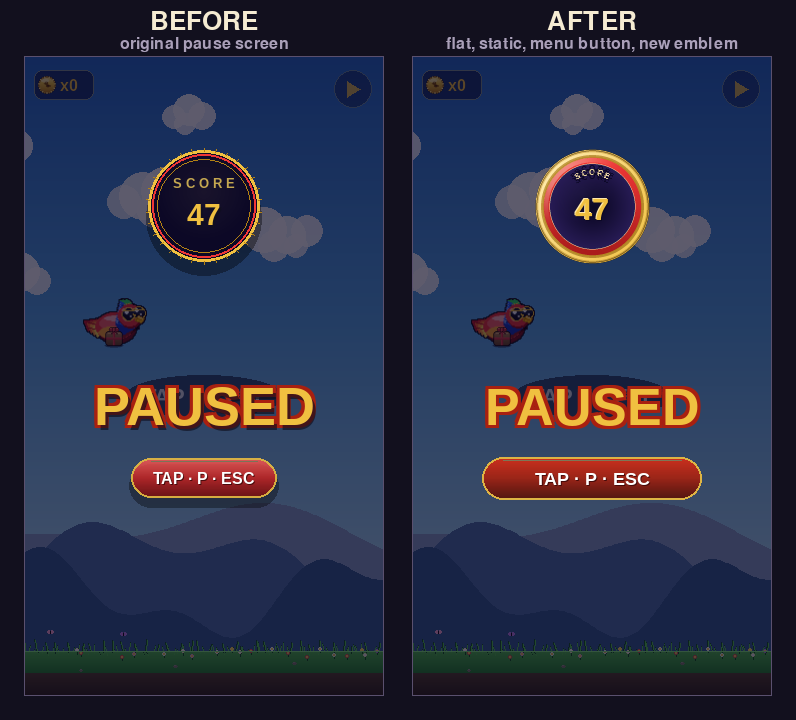
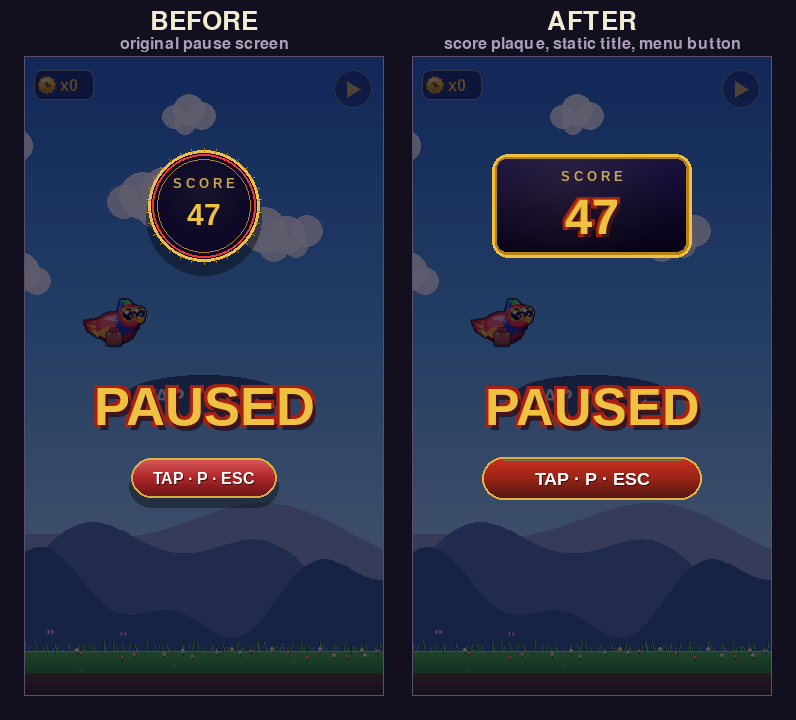
Pause: run-summary-style score plaque + restore original title
Replace the circular emblem on the pause screen with a compact engraved
gold-frame score plaque sharing the run-summary plaque's look (gold frame,
inner bevel, engraved navy face, gold-on-red numeral) at an intermediate
size, SCORE caption, no BEST/delta line. Restore the PAUSED title to its
original gold-on-red run-summary treatment (drop shadow kept) and drop only
the size-pulse animation. Button stays the flat menu-style pill.

Before/after under docs/ui_audit/.

https://claude.ai/code/session_017Z3zLhntZrsy2aMti6pFtg

diff --git a/game/hud.py b/game/hud.py
@@ -1385,6 +1385,57 @@ def _score_plaque(surf, rect, score: int, best: int, new_best: bool):
     surf.blit(cf, cf.get_rect(center=(rect.centerx, rect.bottom - 20)))
 
 
+def _score_plaque_compact(surf, rect, score, label="S C O R E"):
+    """Intermediate engraved gold-frame score plaque — the run-summary
+    plaque's look (gold frame, inner bevel, engraved navy face, gold-on-red
+    numeral) scaled down for the pause overlay, with a SCORE caption and no
+    BEST/delta line."""
+    pygame.draw.rect(surf, _GOLD_BRIGHT, rect, border_radius=16)
+    inner = rect.inflate(-6, -6)
+    pygame.draw.rect(surf, _GOLD_DEEP, inner, border_radius=12)
+    face = inner.inflate(-5, -5)
+    grad = pygame.Surface(face.size, pygame.SRCALPHA)
+    for yy in range(face.h):
+        c = lerp_color(_PANEL_LIGHTER, _NIGHT_DEEP, yy / max(1, face.h - 1))
+        pygame.draw.line(grad, (*c, 255), (0, yy), (face.w, yy))
+    mask = pygame.Surface(face.size, pygame.SRCALPHA)
+    pygame.draw.rect(mask, (255, 255, 255, 255),
+                     (0, 0, face.w, face.h), border_radius=9)
+    grad.blit(mask, (0, 0), special_flags=pygame.BLEND_RGBA_MIN)
+    surf.blit(grad, face.topleft)
+    # Radial light hint upper-left of face.
+    glow = pygame.Surface(face.size, pygame.SRCALPHA)
+    for rr in range(int(face.w * 0.6), 0, -2):
+        a = int(18 * (1 - rr / (face.w * 0.6)))
+        pygame.draw.circle(glow, (255, 220, 140, a),
+                           (int(face.w * 0.35), int(face.h * 0.25)), rr)
+    glow.blit(mask, (0, 0), special_flags=pygame.BLEND_RGBA_MIN)
+    surf.blit(glow, face.topleft)
+    # SCORE caption.
+    sc = _font(13, True).render(label, True, _GOLD_MUTED)
+    sc.set_alpha(230)
+    surf.blit(sc, sc.get_rect(center=(rect.centerx, rect.y + 22)))
+    # Engraved gold-on-red numeral — same treatment as the run-summary
+    # plaque, scaled to the compact size.
+    big_num = str(score)
+    num_size = max(28, int(rect.h * 0.48))
+    nf = _font(num_size, True).render(big_num, True, _GOLD_BRIGHT)
+    no = _font(num_size, True).render(big_num, True, _RED_OUTLINE)
+    nsh = _font(num_size, True).render(big_num, True, NEAR_BLACK)
+    deep_inner = _font(num_size, True).render(big_num, True, _GOLD_DEEP)
+    nr = nf.get_rect(center=(rect.centerx, rect.y + int(rect.h * 0.60)))
+    px = 3
+    for ox in (-px, 0, px):
+        for oy in (-px, 0, px):
+            if ox or oy:
+                surf.blit(no, (nr.x + ox, nr.y + oy))
+    nsh.set_alpha(180)
+    surf.blit(nsh, (nr.x + 3, nr.y + 4))
+    deep_inner.set_alpha(180)
+    surf.blit(deep_inner, (nr.x - 1, nr.y - 1))
+    surf.blit(nf, nr)
+
+
 class HUD:
     def __init__(self):
         self.pause_btn = PauseButton()
@@ -1425,17 +1476,17 @@ class HUD:
         dim.fill((6, 2, 28, 165))
         surf.blit(dim, (0, 0))
 
-        # Hero score medallion at the top so the player keeps a clear
-        # read on the current run while paused (mockup convention).
+        # Compact engraved score plaque (run-summary plaque style) so the
+        # player keeps a clear read on the current run while paused.
         if score > 0:
-            _score_emblem(surf, W // 2, 150, 56,
-                          "S C O R E", str(score))
+            pw, ph = 200, 104
+            plaque = pygame.Rect(W // 2 - pw // 2, 150 - ph // 2, pw, ph)
+            _score_plaque_compact(surf, plaque, score)
 
-        # Static, flat title — no pulse or drop shadow so the paused screen
-        # sits calm rather than throbbing.
+        # Title in the canonical gold-on-red run-summary treatment; only the
+        # original size-pulse animation is dropped so it sits calm.
         cy = H // 2 + 30
-        _outlined_text(surf, "PAUSED", (W // 2, cy),
-                        size=52, px=3, shadow_offset=None)
+        _outlined_text(surf, "PAUSED", (W // 2, cy), size=52, px=3)
 
         # Same flat dim-scarlet pill as the main-menu CTAs.
         _pill_btn(surf, (W // 2, cy + 72), "TAP · P · ESC",

diff --git a/tools/compare_pause.py b/tools/compare_pause.py
@@ -59,7 +59,7 @@ def compose(before_p, after_p, out):
     pygame.draw.rect(canvas, (90, 80, 110), (lx, HEADER, W, H), 1)
     pygame.draw.rect(canvas, (90, 80, 110), (rx, HEADER, W, H), 1)
     header("BEFORE", "original pause screen", lx + W // 2)
-    header("AFTER", "flat, static, menu button, new emblem", rx + W // 2)
+    header("AFTER", "score plaque, static title, menu button", rx + W // 2)
     pygame.image.save(canvas, out)
     print("composed", out)
 
